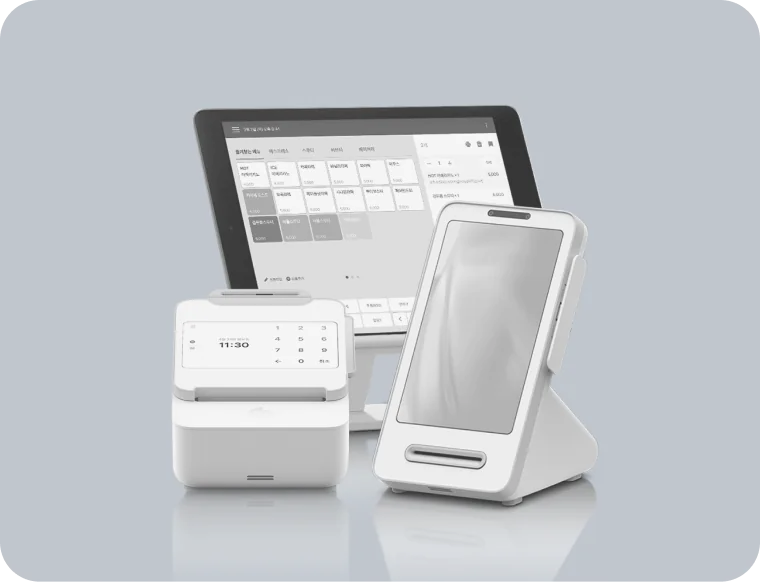
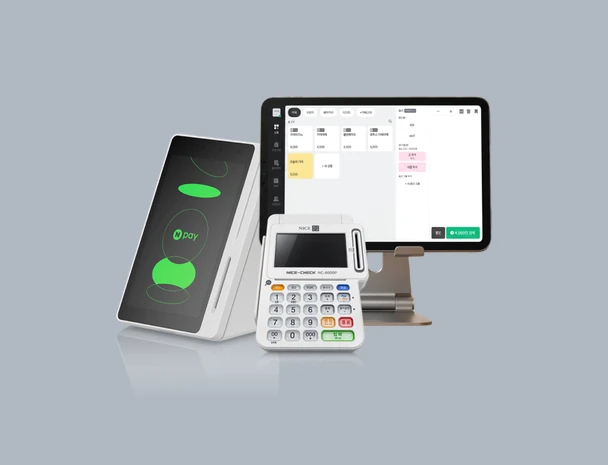
비교 카드 사진 교체 + 토스 렌탈 시트와 합치기(페이지별 탭)
- 비교 카드(일반 렌탈 / 페이앤밴) 사진을 네이버 커넥트·카드 단말기·포스 태블릿 사진으로 교체
- Apps Script 를 여러 상세페이지 공용으로: 신청서의 page 값으로 탭을 나눔
  (page 없음 = 토스 렌탈 '신청목록' 그대로, connect = '커넥트 신청목록'), 누적 조회수도 페이지별
  → 토스 렌탈 사이트는 수정 없이 그대로 동작
- 웹사이트: config.js PAGE_ID="connect", 신청서·조회수 요청에 page 포함
- 슬랙: page(페이지 이름) 값 사용 가능, 기본 전송 목록은 예전과 같음(워크플로에 변수 추가 후 켜기)
- docs/form-setup.md: 토스 렌탈 시트에 합치는 순서로 다시 작성

Claude-Session: https://claude.ai/code/session_01C77V6sSbKxAkxXJUu1L6ac

diff --git a/public/index.html b/public/index.html
@@ -444,7 +444,7 @@
           <!-- 비교 카드 -->
           <div class="compare">
             <div class="compare__card compare__card--other" style="--x: 0; --y: 128; --w: 304" data-reveal="left">
-              <img class="compare__img" src="assets/images/compare/other.webp" width="760" height="582" alt="" loading="lazy" />
+              <img class="compare__img" src="assets/images/compare/other.webp" width="608" height="465" alt="" loading="lazy" />
               <ul class="compare__list" aria-label="일반 렌탈">
                 <li class="compare__item"><svg class="compare__check" aria-hidden="true"><use href="#i-check" /></svg><span>늦는 사후 처리</span></li>
                 <li class="compare__item"><svg class="compare__check" aria-hidden="true"><use href="#i-check" /></svg><span>수수료 발생</span></li>
@@ -458,7 +458,7 @@
               <div class="compare__brand">
                 <img src="assets/icons/logo-paydv.svg" width="135" height="17" alt="페이앤밴 PAYDV" />
               </div>
-              <img class="compare__img" src="assets/images/compare/paydv.webp" width="878" height="588" alt="페이앤밴 무상 렌탈 기기" loading="lazy" />
+              <img class="compare__img" src="assets/images/compare/paydv.webp" width="702" height="470" alt="네이버 커넥트·카드 단말기·포스 태블릿" loading="lazy" />
               <ul class="compare__list" aria-label="페이앤밴">
                 <li class="compare__item" style="--i: 0"><svg class="compare__check" aria-hidden="true"><use href="#i-check" /></svg><span>카드사 가맹 0원</span></li>
                 <li class="compare__item" style="--i: 1"><svg class="compare__check" aria-hidden="true"><use href="#i-check" /></svg><span>영수증 용지 무료</span></li>

diff --git a/public/js/config.js b/public/js/config.js
@@ -4,11 +4,14 @@
 export const CONFIG = {
   /**
    * 신청서를 받을 Google Apps Script 웹 앱 주소 (https://script.google.com/macros/s/.../exec)
-   * 설정 방법: docs/form-setup.md
+   * 토스 렌탈과 같은 시트·같은 주소를 씁니다. 신청은 PAGE_ID 로 구분돼 '커넥트 신청목록' 탭에 따로 쌓입니다.
+   * 설정 방법: docs/form-setup.md  (먼저 Apps Script 코드를 새 버전으로 바꾼 뒤에 주소를 넣어주세요)
    * 비워두면 "테스트 모드"로 동작합니다 (화면 흐름만 확인, 실제 전송 안 됨).
-   * ※ 토스 렌탈 페이지와 신청이 섞이지 않도록, 이 페이지 전용 시트/Apps Script 를 새로 만들어 넣어주세요.
    */
   FORM_ENDPOINT: "",
+
+  /** 이 페이지 이름표. 시트 탭·누적 조회수를 페이지별로 나눌 때 씁니다. (apps-script/Code.gs 의 PAGES 와 같은 값) */
+  PAGE_ID: "connect",
 
   /** 업종 선택 목록 */
   BUSINESS_TYPES: [

diff --git a/public/js/modules/view-counter.js b/public/js/modules/view-counter.js
@@ -45,6 +45,7 @@ export async function initViewCounter() {
 async function fetchTotal(action) {
   const url = new URL(CONFIG.FORM_ENDPOINT);
   url.searchParams.set("action", action);
+  if (CONFIG.PAGE_ID) url.searchParams.set("page", CONFIG.PAGE_ID); // 페이지별 조회수
   const ctrl = new AbortController();
   const timer = setTimeout(() => ctrl.abort(), TIMEOUT_MS);
   try {

diff --git a/public/js/modules/form.js b/public/js/modules/form.js
@@ -240,6 +240,7 @@ export function initApplyForm() {
       submittedAt: new Date().toISOString(),
       userAgent: navigator.userAgent,
       website: form.elements.website.value,
+      page: CONFIG.PAGE_ID,
       ...getAttribution(),
     };
   }

diff --git a/docs/form-setup.md b/docs/form-setup.md
@@ -2,69 +2,71 @@
 
 웹사이트 폼 → **Google Apps Script(웹 앱)** → ① 구글 시트에 한 줄 저장 ② 슬랙 채널에 알림
 
-별도 서버 없이 무료로 동작하고, 슬랙 주소(웹훅)는 구글 쪽에만 저장되어 웹사이트에 노출되지 않습니다.
+**토스 렌탈과 같은 시트·같은 웹 앱 주소를 함께 씁니다.** 신청서에 페이지 이름표(`page`)가 같이 오기 때문에
+페이지마다 다른 탭에 쌓이고, 상단 바 누적 조회수도 따로 셉니다.
 
-> **토스 렌탈 페이지와 따로 만들어 주세요.** 같은 시트·같은 웹 앱 주소를 쓰면 두 페이지의 신청과 상단 바 조회수가 섞입니다.
-> 슬랙 알림 채널은 같아도 되지만, 어느 페이지 신청인지 구분되도록 워크플로 메시지 첫 줄에 `[네이버 커넥트]` 같은 머리말을 넣어두면 편합니다.
+| 페이지 | `page` 값 | 신청이 쌓이는 탭 | 누적 조회수 (스크립트 속성) |
+| --- | --- | --- | --- |
+| 토스 렌탈 | 없음 (예전 그대로) | `신청목록` | `VIEW_COUNT` |
+| 네이버 커넥트 | `connect` | `커넥트 신청목록` | `VIEW_COUNT_CONNECT` |
+
+- 토스 렌탈 사이트는 고칠 것이 없습니다. `page` 값이 없으면 토스 렌탈로 처리되어 지금과 똑같이 동작합니다.
+- 별도 서버 없이 무료로 동작하고, 슬랙 주소(웹훅)는 구글 쪽에만 저장되어 웹사이트에 노출되지 않습니다.
+- 공용 코드의 원본은 이 저장소의 [`apps-script/Code.gs`](../apps-script/Code.gs) 입니다. (toss-rental 저장소의 Code.gs 는 예전 버전)
 
 ---
 
-## 1. 슬랙 워크플로 웹훅 만들기 (알림 받을 채널 정하기)
+## 1. 토스 렌탈 시트에 합치기
 
-메시지 모양은 슬랙 워크플로에서 직접 꾸미고, Apps Script 는 아래 변수 값만 보냅니다.
-
-1. 슬랙 → 워크플로 빌더 → 새 워크플로 → 시작 방법 **웹훅에서 시작**
-2. 변수를 아래 이름 그대로 만듭니다 (모두 텍스트)
-
-   | 변수 | 내용 | 예 |
-   | --- | --- | --- |
-   | `receivedAt` | 접수일시 | 2026-11-06 10:31:05 |
-   | `storeStatus` | 매장 상태 | 매장 운영 중 |
-   | `industry` | 업종 | 카페 · 디저트 |
-   | `phone` | 휴대폰 | 010-1234-5678 |
-   | `contactDay` | 연락 희망일 (요일) | 월요일 |
-   | `contactDate` | 연락 희망일 (날짜) | 2026-11-09 |
-   | `contactTime` | 연락 희망 시간 | 오후 14시 |
-   | `sheetUrl` (선택) | 시트 해당 행 바로가기 | https://docs.google.com/... |
-
-   변수를 더하거나 빼면 `apps-script/Code.gs` 의 `SLACK_FIELDS` 목록도 똑같이 맞춰주세요.
-3. 다음 단계 **채널에 메시지 보내기** 에서 변수를 넣어 메시지를 꾸미고 게시
-4. 생성된 `https://hooks.slack.com/triggers/...` 주소를 복사
-
-웹훅 주소는 비밀번호처럼 다루세요. 코드나 저장소에 넣지 말고 아래 2단계의 스크립트 속성에만 넣습니다.
-
-## 2. 구글 시트 + Apps Script 준비
-
-1. 새 구글 시트를 만듭니다 (예: `페이앤밴 커넥트 렌탈 신청`)
-2. 메뉴 **확장 프로그램 → Apps Script**
-3. 기본 `Code.gs` 내용을 모두 지우고, 이 저장소의 [`apps-script/Code.gs`](../apps-script/Code.gs) 내용을 붙여넣고 저장
-4. 왼쪽 톱니바퀴 **프로젝트 설정 → 스크립트 속성 → 속성 추가**
-   - 속성: `SLACK_WEBHOOK_URL`
-   - 값: 1번에서 복사한 웹훅 주소
-5. 편집기 상단 함수 목록에서 `setup` 선택 → **실행** → 권한 승인
-   - "확인되지 않은 앱" 경고가 나오면 고급 → 이동 을 눌러 승인합니다 (본인이 만든 스크립트입니다)
-   - 시트에 `신청목록` 탭과 머리글이 생깁니다
-6. (선택) `testSubmit` 실행 → 시트에 테스트 한 줄 + 슬랙 알림이 오면 성공 (확인 후 테스트 행은 지우세요)
-7. 설정과 테스트가 끝나면 `Code.gs` 맨 아래 **일회용** 구역(`setup`, `testSubmit`)은 지워도 됩니다.
-
-## 3. 웹 앱으로 배포
-
-1. 오른쪽 위 **배포 → 새 배포**
-2. 유형 선택(톱니바퀴) → **웹 앱**
-3. 설정
-   - 다음 사용자 인증 정보로 실행: **나**
-   - 액세스 권한이 있는 사용자: **모든 사용자**
-4. **배포** → 나오는 **웹 앱 URL**(`https://script.google.com/macros/s/.../exec`) 복사
-
-## 4. 웹사이트에 주소 넣기
-
-[`public/js/config.js`](../public/js/config.js) 의 `FORM_ENDPOINT` 에 붙여넣습니다.
+1. 토스 렌탈 신청 시트를 열고 메뉴 **확장 프로그램 → Apps Script**
+2. 편집기의 `Code.gs` 내용을 모두 지우고, 이 저장소의 [`apps-script/Code.gs`](../apps-script/Code.gs) 내용을 통째로 붙여넣고 저장
+   - 슬랙 웹훅(`SLACK_WEBHOOK_URL`)과 토스 렌탈 누적 조회수(`VIEW_COUNT`)는 스크립트 속성에 그대로 남아 있어 다시 넣지 않아도 됩니다.
+3. 편집기 상단 함수 목록에서 `setup` 선택 → **실행**
+   - 새 탭 `커넥트 신청목록` 이 머리글과 함께 생깁니다. 기존 `신청목록` 탭은 건드리지 않습니다.
+   - 권한 승인 창이 뜨면 승인합니다.
+4. (선택) `testSubmitConnect` 실행 → `커넥트 신청목록` 에 테스트 한 줄 + 슬랙 알림이 오면 성공 (확인 후 테스트 행은 지우세요)
+5. **배포 → 배포 관리 → (연필) 수정 → 버전: 새 버전 → 배포**
+   - ⚠ "새 배포"가 아니라 기존 배포를 **수정**해야 웹 앱 주소가 그대로 유지됩니다. (주소가 바뀌면 토스 렌탈 사이트 신청이 끊깁니다)
+6. 확인: 웹 앱 주소를 브라우저로 열어 `{"ok":true,"service":"paydv-rental-leads","pages":["toss","connect"]}` 가 보이면 새 코드가 적용된 것입니다.
+7. 같은 웹 앱 주소를 [`public/js/config.js`](../public/js/config.js) 의 `FORM_ENDPOINT` 에 넣고 넷리파이에 반영
+   (토스 렌탈의 `public/js/config.js` 에 들어 있는 주소와 같습니다)
 
 ```js
 FORM_ENDPOINT: "https://script.google.com/macros/s/xxxxxxxx/exec",
 ```
 
-커밋 후 넷리파이에 다시 올리면 끝입니다. 비워두면 폼은 **테스트 모드**로 동작해서(화면 흐름만 확인) 실제 전송이 되지 않습니다.
+> 순서가 중요합니다. 코드를 새 버전으로 바꾸기 전에 주소부터 넣으면, 커넥트 신청이 토스 렌탈 탭에 섞여 들어가고 조회수도 합쳐집니다.
+
+## 2. 슬랙에 어느 페이지 신청인지 표시하기 (선택)
+
+같은 슬랙 채널로 두 페이지 알림이 오므로, 메시지에 페이지 이름을 넣어두면 구분이 쉽습니다.
+
+1. 슬랙 워크플로 빌더에서 기존 신청 알림 워크플로 편집 → 웹훅 변수에 `page` (텍스트) 추가
+2. 메시지 첫 줄에 `page` 변수를 넣고 게시 → 예: `[네이버 커넥트] 새 상담 신청`
+3. Apps Script `Code.gs` 의 `SLACK_FIELDS` 목록 맨 앞에 `'page'` 를 추가하고 저장
+4. 1단계 5번처럼 **새 버전으로 배포**
+
+> 반드시 워크플로에 `page` 변수를 **먼저** 추가하세요. 워크플로에 없는 변수를 보내면 알림이 실패할 수 있어서 기본값에는 넣지 않았습니다.
+
+워크플로 변수 목록 (모두 텍스트, `SLACK_FIELDS` 에 넣은 것만 보냅니다)
+
+| 변수 | 내용 | 예 |
+| --- | --- | --- |
+| `page` | 페이지 이름 | 네이버 커넥트 / 토스 렌탈 |
+| `receivedAt` | 접수일시 | 2026-11-06 10:31:05 |
+| `storeStatus` | 매장 상태 | 매장 운영 중 |
+| `industry` | 업종 | 카페 · 디저트 |
+| `phone` | 휴대폰 | 010-1234-5678 |
+| `contactDay` | 연락 희망일 (요일) | 월요일 |
+| `contactDate` | 연락 희망일 (날짜) | 2026-11-09 |
+| `contactTime` | 연락 희망 시간 | 오후 14시 |
+| `sheetUrl` | 시트 해당 행 바로가기 (해당 페이지 탭으로 열림) | https://docs.google.com/... |
+
+## 3. 페이지를 더 만들 때
+
+1. `Code.gs` 의 `PAGES` 에 한 줄 추가 (예: `kiosk: { name: '키오스크', sheet: '키오스크 신청목록', viewKey: 'VIEW_COUNT_KIOSK', color: '#fff4e5' }`)
+2. 저장 → `setup` 실행(새 탭 생성) → 새 버전으로 배포
+3. 새 페이지의 `config.js` 에 같은 `FORM_ENDPOINT`, `PAGE_ID: "kiosk"`
 
 ---
 
@@ -88,7 +90,7 @@ FORM_ENDPOINT: "https://script.google.com/macros/s/xxxxxxxx/exec",
 - **G~P 열은 기록용**이라 한꺼번에 숨기기 좋게 뒤쪽에 모아두었습니다. (G열 머리글부터 P열까지 선택 → 우클릭 → 열 숨기기)
 - 광고 링크에 `?utm_source=daangn&utm_campaign=connect` 처럼 붙이면 어느 광고에서 들어왔는지 함께 저장됩니다.
 - 같은 번호로 여러 번 신청해도 들어온 그대로 모두 저장되고 슬랙 알림도 매번 갑니다.
-- 이미 예전 코드로 `setup` 을 실행해 머리글이 만들어져 있다면, `신청목록` 탭을 지우고 새 코드로 `setup` 을 다시 실행하세요.
+- 두 탭의 열 구성은 같습니다. 탭을 지우면 그 안의 신청 기록도 사라지니 주의하세요. (탭이 없어지면 다음 신청 때 머리글과 함께 다시 생깁니다)
 
 ## 연락 희망일 (주말·공휴일 제외)
 
@@ -109,8 +111,8 @@ FORM_ENDPOINT: "https://script.google.com/macros/s/xxxxxxxx/exec",
 같은 웹 앱 주소가 페이지 방문 수도 셉니다. 따로 설정할 것은 없습니다.
 
 - 방문자가 처음 들어올 때 1 올라가고, 같은 탭에서 새로고침하면 다시 세지 않습니다.
-- 숫자는 Apps Script **프로젝트 설정 → 스크립트 속성 → `VIEW_COUNT`** 에 저장됩니다.
-- 무료 구글 계정 기준 Apps Script 속성 읽기/쓰기 한도는 하루 약 5만 회라, 하루 2만 명 정도까지는 문제없습니다.
+- 숫자는 Apps Script **프로젝트 설정 → 스크립트 속성** 에 페이지별로 저장됩니다. (토스 렌탈 `VIEW_COUNT`, 네이버 커넥트 `VIEW_COUNT_CONNECT`)
+- 무료 구글 계정 기준 Apps Script 속성 읽기/쓰기 한도는 하루 약 5만 회이고 두 페이지가 함께 씁니다. 두 페이지 합쳐 하루 2만 명 정도까지는 문제없습니다.
 - 숫자를 받아오는 동안에는 0부터 숫자가 올라가는 모션만 보이고, 받아오면 실제 누적 숫자에서 멈춥니다. 미리 넣어둔 가짜 숫자는 없습니다.
 - 받아오지 못하면 그 기기에서 마지막으로 받은 숫자를, 그것도 없으면(`FORM_ENDPOINT` 가 비어 있는 테스트 모드 포함) 숫자 없이 "많은 사장님이 관심있게 보고 있어요" 가 보입니다.
 

diff --git a/README.md b/README.md
@@ -10,7 +10,7 @@
 .
 ├── netlify.toml                 # 넷리파이 설정 (public 폴더 배포)
 ├── apps-script/
-│   └── Code.gs                  # 구글 시트 저장 + 슬랙 알림 + 누적 조회수 (Google Apps Script)
+│   └── Code.gs                  # 구글 시트 저장 + 슬랙 알림 + 누적 조회수 (Google Apps Script, 토스 렌탈과 공용)
 ├── docs/
 │   └── form-setup.md            # 시트·슬랙 연결 방법
 └── public/                      # ← 실제로 배포되는 폴더
@@ -74,8 +74,8 @@ npx serve public
 
 ## 오픈 전 체크리스트
 
-- [ ] 이 페이지 전용 구글 시트 + Apps Script 를 새로 만들고, `public/js/config.js` 의 `FORM_ENDPOINT` 에 웹 앱 주소 넣기 → [docs/form-setup.md](docs/form-setup.md)
-      (토스 렌탈과 같은 주소를 쓰면 신청·조회수가 섞입니다. 비워두면 테스트 모드: 신청은 전송 안 되고 상단 바는 "많은 사장님이 관심있게 보고 있어요")
+- [ ] 토스 렌탈 시트의 Apps Script 를 이 저장소 `apps-script/Code.gs` 로 바꾸고 **새 버전으로 배포**한 뒤, 같은 웹 앱 주소를 `public/js/config.js` 의 `FORM_ENDPOINT` 에 넣기 → [docs/form-setup.md](docs/form-setup.md)
+      (한 시트에서 토스 렌탈은 `신청목록`, 네이버 커넥트는 `커넥트 신청목록` 탭으로 나뉘고 조회수도 따로 셉니다. 비워두면 테스트 모드: 신청은 전송 안 되고 상단 바는 "많은 사장님이 관심있게 보고 있어요")
 - [ ] 넷리파이 주소(또는 도메인)가 정해지면 `index.html` 의 canonical · og:url · og:image 주소 변경 (지금은 `connect-rental.netlify.app` 으로 가정)
 - [ ] 개인정보 수집·이용 동의 문구 확인 (`index.html` 의 `consent-detail`)
 - [ ] 이용약관 / 개인정보처리방침 / 이메일무단수집거부 링크 주소 넣기 (`index.html` 푸터 TODO, 지금은 "준비 중" 안내)
